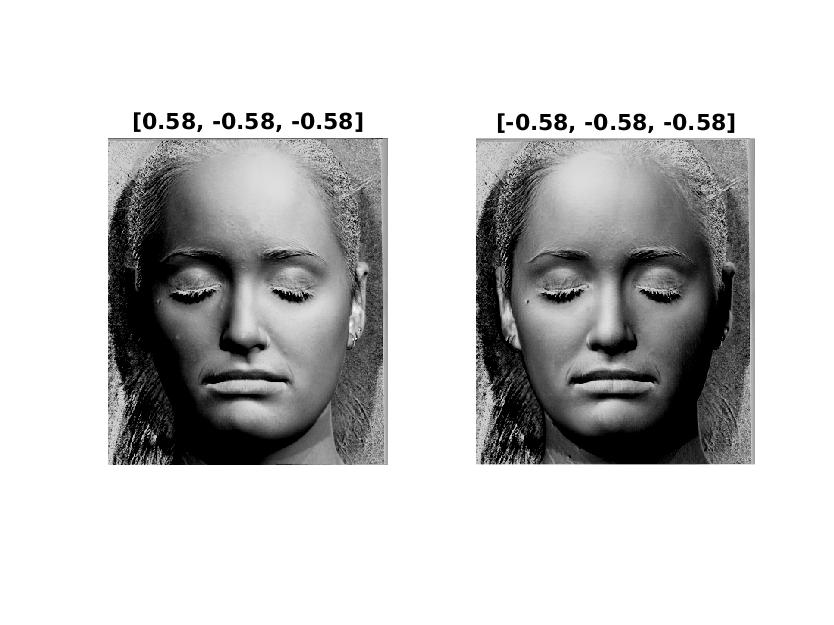
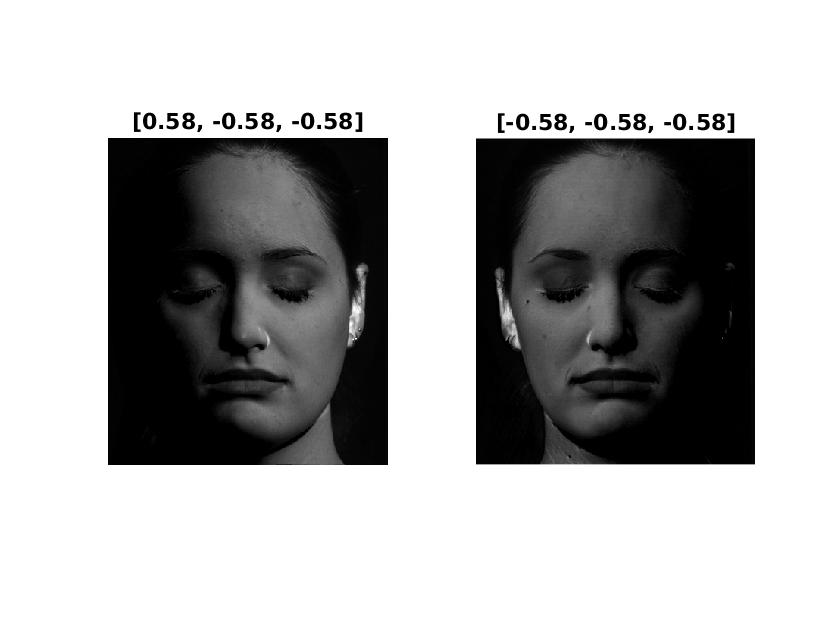
ass 4 debug

Changed region(s): [[0.5612, 0.2128, 0.9041, 0.76], [0.1247, 0.2128, 0.4676, 0.76]]

diff --git a/assgn4/matlab/photometric_stereo.m b/assgn4/matlab/photometric_stereo.m
@@ -12,7 +12,6 @@ load('../data/PhotometricStereo/sources.mat');
 
 [h,w] = size(I1);
 
-%b = zeros(h,w,3)
 a = zeros(h,w);
 n = zeros(h,w,3);
 
@@ -36,12 +35,12 @@ title('normal');
 figure;
 subplot(1,2,1);
 L = [0.58, -0.58, -0.58];
-imshow(a.*n(:,:,1).*L(1)+n(:,:,2).*L(2)+n(:,:,3).*L(3));
+imshow(a.*max(0,n(:,:,1).*L(1)+n(:,:,2).*L(2)+n(:,:,3).*L(3)));
 title('[0.58, -0.58, -0.58]');
 
 subplot(1,2,2);
 L = [-0.58, -0.58, -0.58];
-imshow(a.*n(:,:,1).*L(1)+n(:,:,2).*L(2)+n(:,:,3).*L(3));
+imshow(a.*max(0,n(:,:,1).*L(1)+n(:,:,2).*L(2)+n(:,:,3).*L(3)));
 title('[-0.58, -0.58, -0.58]');
 
 %% reconstruct the 3D model
@@ -51,6 +50,6 @@ shading interp
 s = surf(1:w, 1:h, -integrate_frankot(n), 'EdgeColor', 'none', 'FaceColor', 'interp');
 title('reconstructed');
 
-material shiny;
+%material shiny;
 light               % create a light
 lighting gouraud    % preferred method for lighting curved surfaces

diff --git a/assgn4/Writeup.md b/assgn4/Writeup.md
@@ -39,7 +39,7 @@ $$
 
 The radiance of $X_1$ is $L(X_1)=L$, $X_2$ is $L(X_2)=L\cos\alpha$.
 
-By BRDF $f=L(X)/E(X)$ is same everywhere
+By BRDF $f=L(X)/E(X)$ is same everywhere for Lambertian source,
 
 $$
 \begin{aligned}
@@ -72,7 +72,7 @@ Some part of the rabbit should be blocked since the path to light is blocked by 
 
 #### 1.4.2 Nostrils error
 
-In using photometric stereo, we are making an assumption of no shadow, however nostrils have shadow. We can calculate albedo of nostrils using only photos that do not generate shadow around nostrils
+In using photometric stereo, we are making an assumption of no shadow, however nostrils have shadow. We can calculate albedo of nostrils using only photos that do not generate shadow around nostrils.
 
 #### 1.4.3 Stereo recover
 
@@ -88,3 +88,4 @@ In using photometric stereo, we are making an assumption of no shadow, however n
 
 ### 1.6 Color metamers
 
+$\psi \xi$
